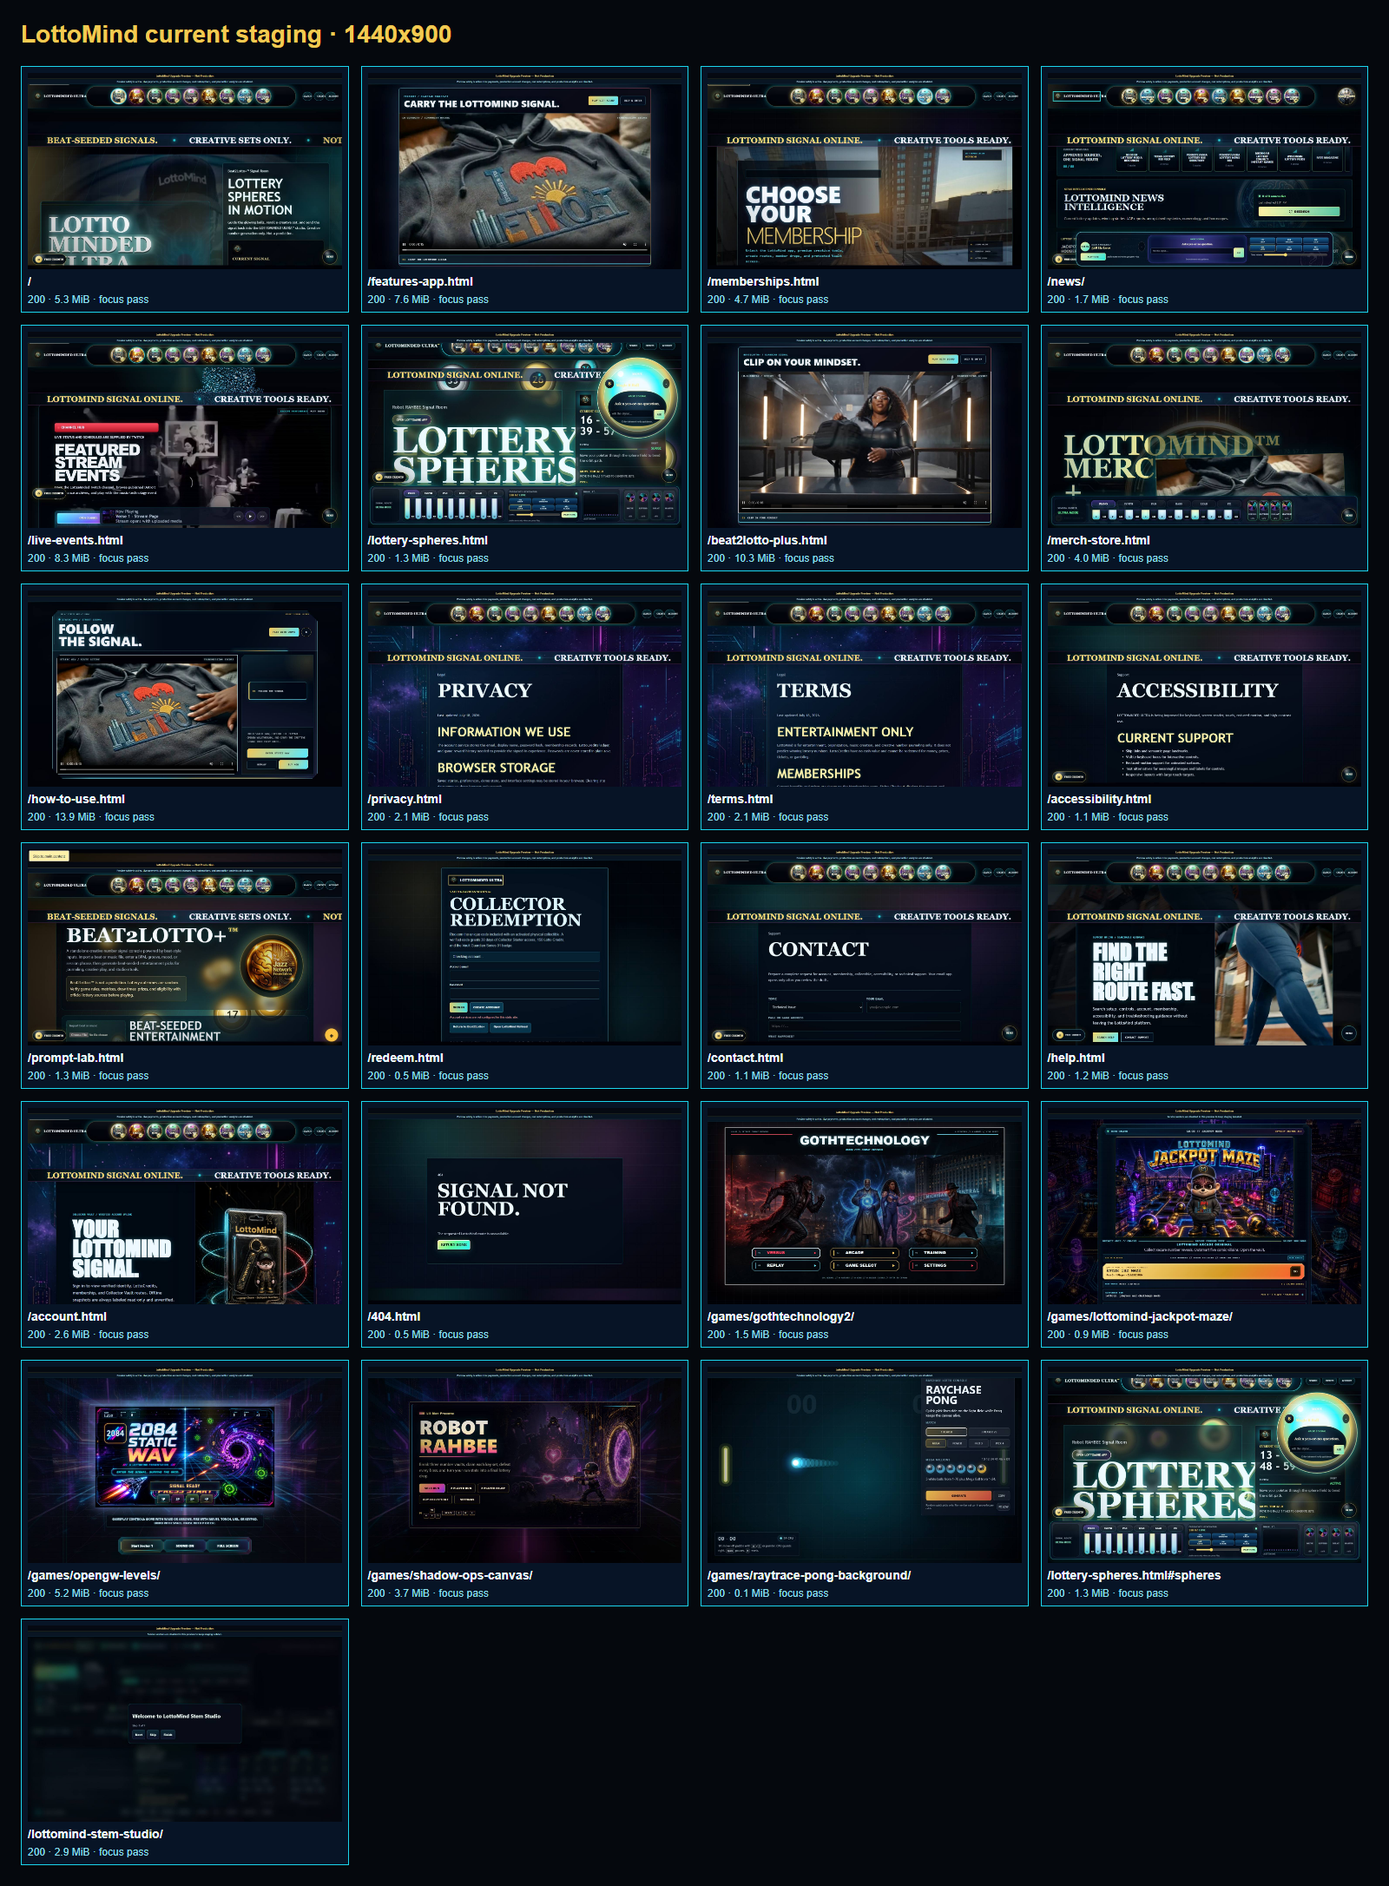
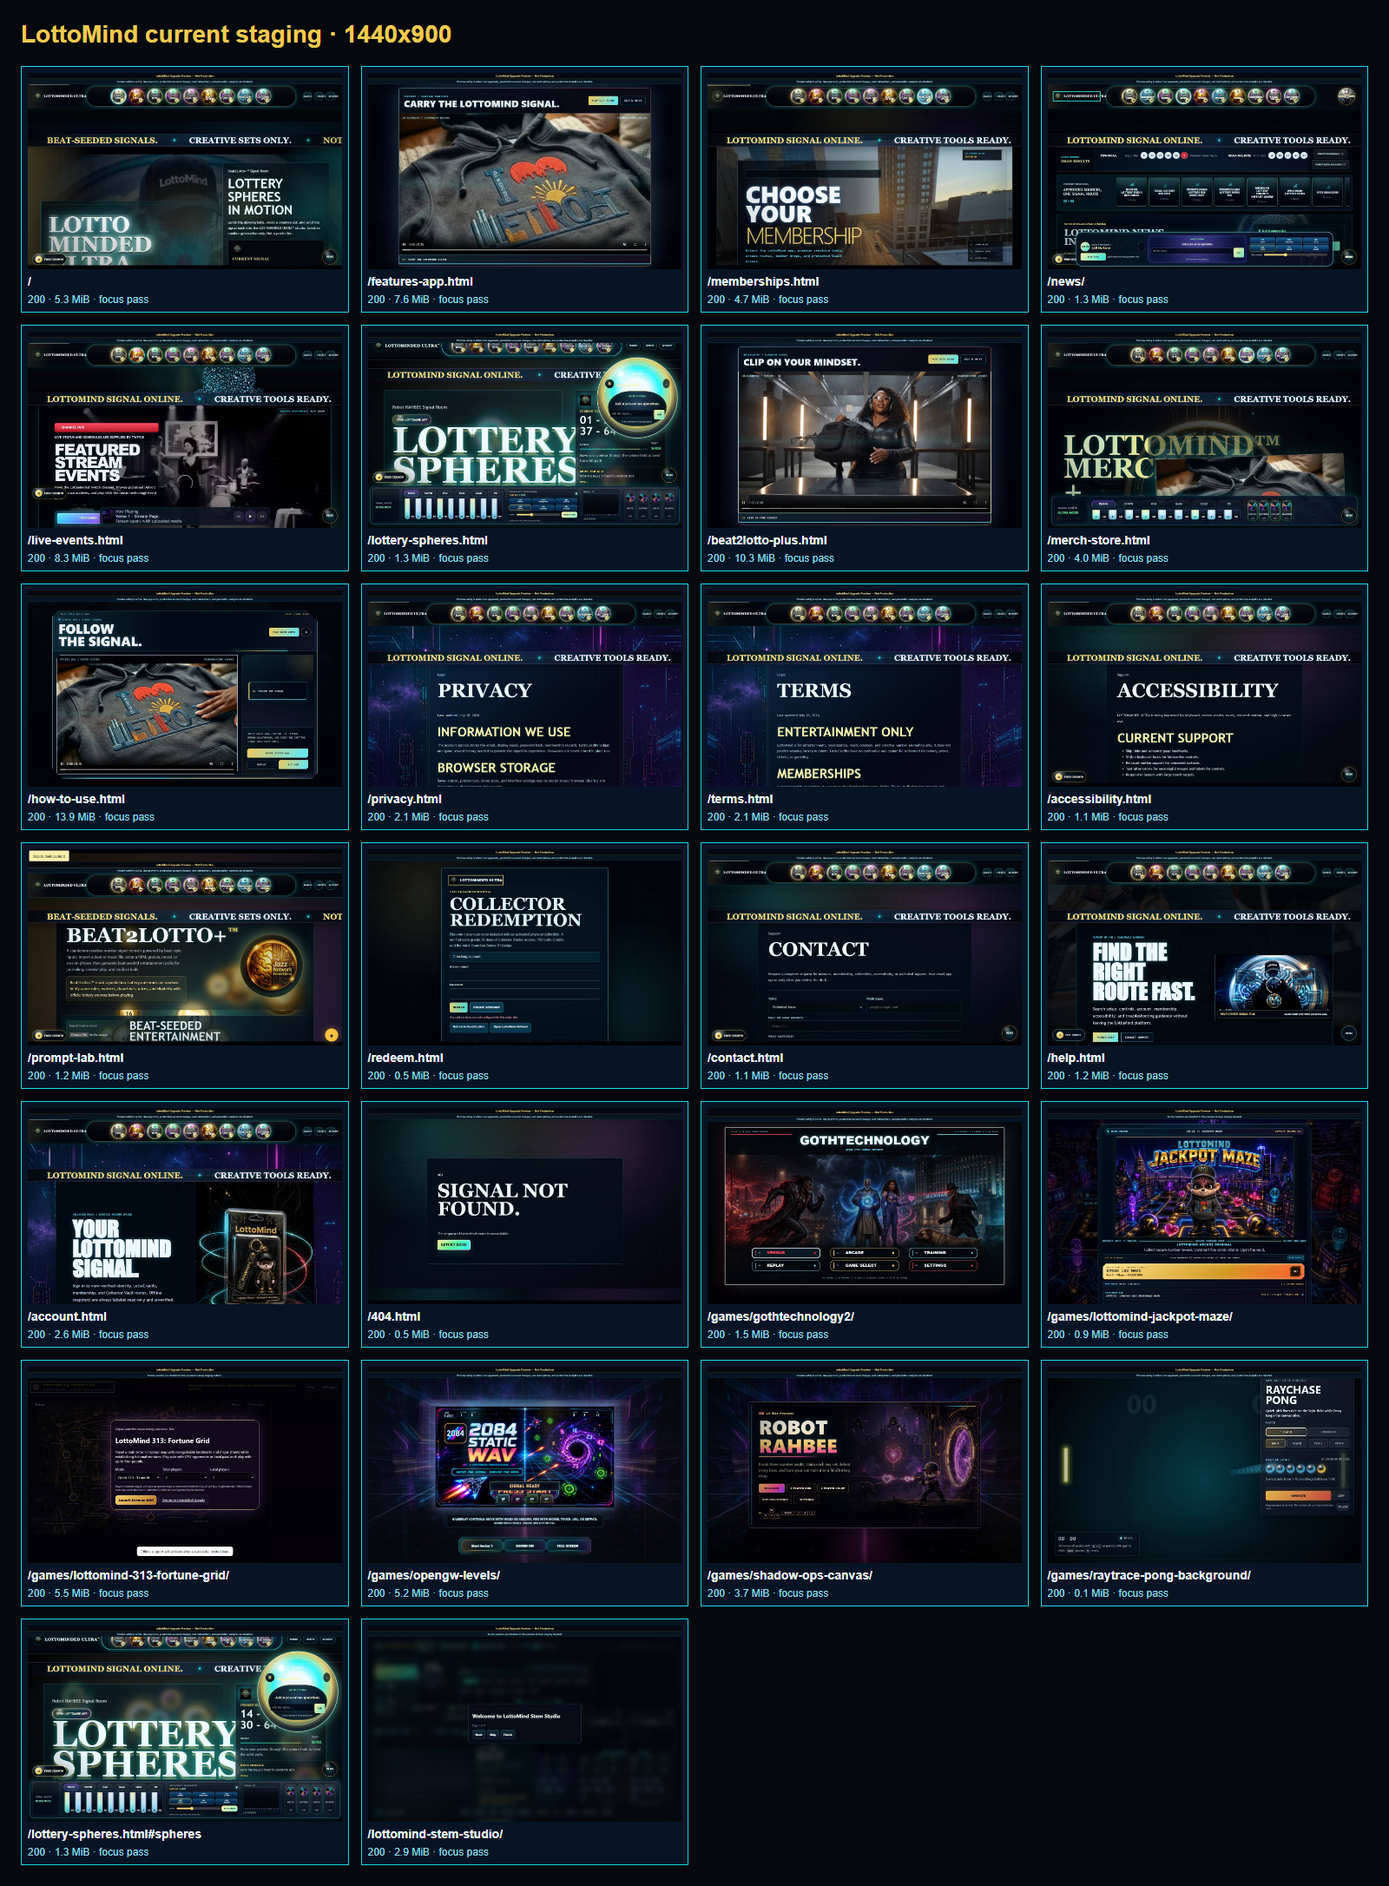
chore: verify recovery and checkout release gates

diff --git a/docs/upgrade-redesign-status.md b/docs/upgrade-redesign-status.md
@@ -7,25 +7,25 @@
 - Snapshot annotated tag object SHA: `9ba25352efc17d5b514e5afd59c8afde5c9d2949`
 - Snapshot target commit SHA: `975c637cea7003533cdc30aed9d96be51929bfc8`
 - Upgrade branch: `upgrade-redesign`
-- Current upgrade branch implementation SHA: `904533567a0d6bd3bc14dff74d2d6dd0b6b54e97` before the focused Collector Access recovery commit
+- Current upgrade branch implementation SHA: `0dc245f2c7eee8ddcaf19599613900bb07f010d4` before this focused verification-documentation commit
 - Upgrade branch SHA at Step 0A branch creation: `1fc4c95ca4d0b22ee5188d06f8ea75573c63a00a`
 - Upgrade branch SHA before Step 0B commit: `220653bbc300d0e0b236c6e834043f39fdfcd76c`
 - Step 0B commit SHA: `6e58aafc4addabf5281262ec951a7d6df3dc66a0`
 - Deployment mechanism discovered: GitHub Pages Actions from repository-root `.github/workflows/pages.yml`; pushes to `main` upload the repository root with `actions/upload-pages-artifact` and deploy with `actions/deploy-pages`. Current remote production head is `09f8e5d2c8bc10d0cf1af240216404c6af74c3c0`.
 - Staging provider: Local static server (Mode C); no remote preview provider is configured
-- Staging URL: Local only (`http://127.0.0.1:8385/` for the current Collector Access artifact)
-- Staging integrations: No isolated backend or Stripe test-mode configuration is currently configured; protected writes remain disabled
-- Last completed step: Added direct Home Collector Access, password visibility, session persistence, and guarded password recovery
+- Staging URL: Local only (`http://127.0.0.1:8405/` during the current release sign-off capture)
+- Staging integrations: No isolated staging backend is configured; the staging artifact keeps payments, account writes, redemptions, and production analytics disabled. The connected backend was verified separately with Stripe `test` mode.
+- Last completed step: Deployed and verified the committed Collector recovery and Stripe mode handlers, then reran every non-authenticated release gate
 - Step 1 commit SHA: This file is part of the Step 1 commit; use `git log -1 --format=%H -- docs/upgrade-redesign-status.md` to resolve its exact non-self-referential SHA. The completion report records it explicitly.
 - Last staging review: Collector Access recovery; review: `docs/staging-reviews/collector-access-recovery.md`
 - Staging review commit SHA: This file is part of the staging-review commit; the completion report records its exact SHA.
-- Last successful test run: 2026-08-03 - focused Collector recovery passed 10/10; site validation passed 17 HTML files; source browser suite passed 170 with 8 intentional skips; release audit passed 7/7 groups; source/staging route matrix passed 156/156; staging browser safety passed 12/12; static staging verification passed 26 pages and 591 same-origin references
+- Last successful test run: 2026-08-04 - site validation passed 17 HTML files; source browser suite passed 170 with 8 intentional skips; release audit passed 7/7 groups; fresh-port source/staging route matrix passed 156/156; staging browser safety passed 12/12; static staging verification passed 26 pages and 591 same-origin references; visual sign-off passed 78/78 states
 - Visual baseline: Complete - 69 production route screenshots plus desktop, tablet, and mobile contact sheets under `docs/visual-baseline/v1/`
 - Step 1 visual comparison: Production and staging home routes compared at 1440x900 and 390x844; staging adds only the preview and safety banners, with no redesign changes
 - Resolved Step 1 baseline failures: Contact support helper restored; Stem Studio tablet/mobile overflow corrected; Jackpot Maze runtime, heading, and entry focus restored; first-load outliers reduced; staging News production request removed
-- Latest visual comparison: Home and Memberships compared with their v1 references at 1440x900 and 390x844; review: `docs/staging-reviews/collector-access-recovery.md`
+- Latest visual comparison: Memberships was compared with its v1 references at 1440x900 and 390x844, and all 26 current routes passed desktop, tablet, and mobile sign-off; review: `docs/staging-reviews/release-blocker-remediation.md`
 - Latest performance comparison: three presentation videos are 73.4-73.5% smaller; the Account hero is 92.0% smaller; the Arcade marquee is 93.7% smaller. Current staging transfer measurements are recorded in `docs/staging-reviews/help-media-release.md`
-- Staging review approval status: Needs authenticated checkout handoff before Step 34
+- Staging review approval status: Needs authenticated Stripe test Checkout handoff and cancellation before Step 34
 - Production approval status: The earlier Step 35 launch was approved and completed through PR #2 using merge commit `09f8e5d2c8bc10d0cf1af240216404c6af74c3c0`; the new Phase 1 rollback commit is not approved or merged to `main`
 - Rollback reference: `git revert -m 1 09f8e5d2c8bc10d0cf1af240216404c6af74c3c0`; permanent snapshot `v1-final` remains at `975c637cea7003533cdc30aed9d96be51929bfc8`
 - Known pre-existing repository changes: The working tree was clean when Step 0A began. Local `main` already contained commit `1fc4c95ca4d0b22ee5188d06f8ea75573c63a00a` ahead of `origin/main`; that commit was preserved as the starting point of `upgrade-redesign` and was not pushed to production.
@@ -47,13 +47,13 @@
 - Changes: Added Collector Access beside Unlock Vault on Home; added password visibility, Remember me session persistence, Forgot Password, and password-update controls to Collector Access
 - Security: Raw passwords are never stored. Remember me chooses local versus tab-scoped session-token storage. Recovery tokens are cleared from the URL after capture.
 - Staging safety: Reset emails, password updates, production account writes, live payments, real redemptions, and production analytics remain blocked. No isolated staging account backend is configured.
-- Backend status: Supabase Edge Function handlers are prepared but not deployed by this step.
+- Backend status: The committed `lottomind-api` handler is deployed as active Supabase Edge Function version 6. Password recovery responds generically, password update requires an authenticated recovery session, and billing configuration reports Stripe `test` mode.
 - Tests: Focused Collector recovery 10/10; full browser suite 170 passed with 8 intentional skips; route matrix 156/156; release audit 7/7; site validation 17 HTML files; staging safety 12/12; static staging 26 pages and 591 same-origin references
 - Visual review: `docs/staging-reviews/collector-access-recovery.md`; desktop and mobile captures show no horizontal overflow and preserve LottoMind's visual identity
 - Staging URL: Local only (`http://127.0.0.1:8385/`)
 - Production approval status: Not approved for this change; `main`, the production URL, and `v1-final` remain unchanged
 
-- Remaining checkout gate: the live configuration does not expose a `test` or `live` mode value, and the browser has no authenticated Collector session. The authenticated Stripe handoff and cancellation remain incomplete
+- Remaining checkout gate: the live configuration now reports Stripe `test` mode, but the existing visible Collector credentials were rejected once with `401`. No retry, password guess, Stripe redirect, payment entry, or charge was attempted. The authenticated test Checkout handoff and cancellation remain incomplete.
 - Tag safety: local and remote `v2-rc1` annotated tag objects differ, but both peel to `971dd17accd03be8bd1ff20664ad98734c792867`; no tag was moved, replaced, or deleted
 - Review: `docs/staging-reviews/step34-preflight-refresh.md`
 - Approval status: Not ready for Step 34; production remains not approved

diff --git a/docs/production-release-candidate.md b/docs/production-release-candidate.md
@@ -6,8 +6,8 @@
 - Production branch: `main` at `09f8e5d2c8bc10d0cf1af240216404c6af74c3c0`
 - Permanent pre-upgrade snapshot: `v1-final` at `975c637cea7003533cdc30aed9d96be51929bfc8`
 - Upgrade branch: `upgrade-redesign`
-- Current audited upgrade tree: `050ecb279ea4deafe6d75714874c34be486f304d` before the focused preflight documentation update
-- Staging URL: Local only (`http://127.0.0.1:8369/`)
+- Current audited upgrade tree: `0dc245f2c7eee8ddcaf19599613900bb07f010d4` before the focused release-blocker verification documentation update
+- Staging URL: Local only (`http://127.0.0.1:8405/` during the current sign-off capture)
 - Active release-candidate tag for the current tree: None
 - Historical immutable tags: `v2-rc1`, `v2-rc2`, and `v2-rc3`
 - Production approval for the current tree: Not approved
@@ -16,12 +16,12 @@ The historical release candidate was merged previously. The current upgrade work
 
 ## Current Verification
 
-- Source browser suite: 160 passed, 8 intentional viewport skips, 0 failed.
+- Source browser suite: 170 passed, 8 intentional viewport skips, 0 failed.
 - Release audit: 7/7 groups passed for metadata, structured data, PWA, checkout hooks, offline account behavior, challenges, and share cards.
 - Source/staging route matrix: 156/156 passed.
-- Staging browser safety: 11/11 passed, including mobile Help fixed-control clearance.
+- Staging browser safety: 12/12 passed, including mobile Help fixed-control clearance and blocked Collector writes.
 - Staging static artifact: 26 noindexed pages and 591 same-origin references passed.
-- Visual sign-off: 75/75 states passed across 25 routes at `1440x900`, `768x1024`, and `390x844`.
+- Visual sign-off: 78/78 states passed across 26 routes at `1440x900`, `768x1024`, and `390x844`.
 
 ## Accessibility Summary
 
@@ -43,12 +43,15 @@ Source production HTML remains free of staging banners and staging noindex metad
 
 ## Checkout And Backend Limitations
 
-This task did not perform or complete a charge. Production configuration reports enabled plans, the live UI reports secure checkout ready, a signed-out Gold selection stops at Collector Access, and an unauthenticated checkout request returns `401` without a Stripe redirect. The authenticated Stripe handoff and cancellation remain incomplete because the browser is not signed in and the configuration does not expose its Stripe mode. No isolated staging backend, dedicated Stripe test project, or remote preview provider is configured, so protected staging writes remain disabled.
+This task did not perform or complete a charge. The connected Supabase `lottomind-api` Edge Function is active at version 6. Billing configuration reports `mode: test`, `enabled: true`, and seven configured plans. Password recovery returns a generic `200`, while unauthenticated password updates and Checkout creation return `401` without a Stripe redirect.
+
+The authenticated Stripe test Checkout handoff and cancellation remain incomplete because the existing visible Collector credentials were rejected once with `401`. No retry, password guess, payment information, Stripe redirect, charge, or redemption occurred. No isolated staging backend, dedicated staging Stripe project, or remote preview provider is configured, so the local artifact keeps protected writes disabled. The current tree is not ready for a new release-candidate tag until a valid Collector sign-in completes that final test-mode Checkout checkpoint.
 
 ## Visual Evidence
 
 - Production baseline: [`docs/visual-baseline/v1/`](visual-baseline/v1/)
 - Current review: [`docs/staging-reviews/help-media-release.md`](staging-reviews/help-media-release.md)
+- Checkout remediation review: [`docs/staging-reviews/release-blocker-remediation.md`](staging-reviews/release-blocker-remediation.md)
 - Current contact sheets and machine manifest: [`docs/staging-reviews/release-signoff-assets/`](staging-reviews/release-signoff-assets/)
 
 ## Rollback And Merge Boundary

diff --git a/docs/staging-reviews/release-blocker-remediation.md b/docs/staging-reviews/release-blocker-remediation.md
@@ -1,0 +1,63 @@
+# Release Blocker Remediation Review
+
+## Scope
+
+- Branch: `upgrade-redesign`
+- Audited implementation SHA: `0dc245f2c7eee8ddcaf19599613900bb07f010d4`
+- Production reference: `main` at `09f8e5d2c8bc10d0cf1af240216404c6af74c3c0`
+- Staging URL: Local only (`http://127.0.0.1:8405/` during capture)
+- Affected route: `/memberships.html`
+- Connected service: Supabase `lottomind-api` Edge Function version 6
+
+## Visual Comparison
+
+- Production baseline desktop: [Memberships 1440x900](../visual-baseline/v1/memberships--desktop.png)
+- Production baseline mobile: [Memberships 390x844](../visual-baseline/v1/memberships--mobile.png)
+- Current staging desktop: [Memberships 1440x900](release-blocker-remediation-assets/memberships-1440x900.png)
+- Current staging mobile: [Memberships 390x844](release-blocker-remediation-assets/memberships-390x844.png)
+- Full current sign-off: [78-state manifest](release-signoff-assets/release-signoff-manifest.json)
+
+The current upgrade branch intentionally differs from `v1-final` through the accumulated navigation, commercial, membership, and staging-safety work. This backend remediation introduced no new visual departure. Desktop and mobile captures have no horizontal overflow or console errors, and the black, gold, cyan, violet, Guardian, arcade, and cinematic identity remains recognizable.
+
+## Improvements
+
+- Deployed the already committed password-recovery and billing-mode handlers without changing website files or production deployment settings.
+- Live billing configuration now reports `mode: test`, `enabled: true`, and seven configured plans.
+- A generic password-reset request returned `200` without revealing whether an account exists.
+- Unauthenticated password updates and Checkout creation remain blocked with `401`.
+- Expanded the repeatable release sign-off from 25 to 26 routes by adding LottoMind 313: Fortune Grid; all 78 desktop, tablet, and mobile states passed.
+
+## Regressions
+
+None found in automated source, staging, route, accessibility, metadata, PWA, asset, or visual checks.
+
+## Features Intentionally Removed
+
+None.
+
+## Features Unintentionally Lost
+
+None found.
+
+## Accessibility Findings
+
+Keyboard focus, reduced motion, mobile containment, popup pointer behavior, Help fixed-control clearance, and route landmarks passed the current automated suites. The two focused Memberships captures reported no overflow or console errors.
+
+## Performance Findings
+
+The remediation changes service behavior and documentation only. No new page media or initial-transfer cost was added.
+
+## Checkout Safety
+
+- Stripe reports test mode; no live charge can be created by the connected key.
+- The existing visible Collector credentials were rejected once with `401`, so the authenticated Checkout request was not sent.
+- No payment form was completed, no card details were entered, and no charge or redemption occurred.
+- No isolated staging backend is available. The local staging artifact therefore remains fail-closed for payments, production account writes, redemptions, and production analytics.
+
+## Recommended Correction
+
+Use Collector Access password recovery or a known valid account, sign in through the visible form, then repeat the Gold test-mode Checkout handoff and cancel back to Memberships without entering payment information. Do not create a release-candidate tag until that final checkpoint passes.
+
+## Approval Status
+
+Needs revision.

diff --git a/docs/site-rebuild-checklist.md b/docs/site-rebuild-checklist.md
@@ -6,11 +6,11 @@ This matrix records the current release-signoff evidence for the upgrade branch.
 
 - Production baseline: `v1-final` at `975c637cea7003533cdc30aed9d96be51929bfc8`, with 69 route captures in [`visual-baseline/v1/`](visual-baseline/v1/)
 - Audited site content: the focused Help and presentation-media task tree on `upgrade-redesign`; the final commit is resolved with `git log -1 --format=%H -- docs/site-rebuild-checklist.md`
-- Current staging captures: 75/75 passed across 25 routes at `1440x900`, `768x1024`, and `390x844`
+- Current staging captures: 78/78 passed across 26 routes at `1440x900`, `768x1024`, and `390x844`
 - Contact sheets: [desktop](staging-reviews/release-signoff-assets/desktop-contact-sheet.png), [tablet](staging-reviews/release-signoff-assets/tablet-contact-sheet.png), and [mobile](staging-reviews/release-signoff-assets/mobile-contact-sheet.png)
 - Machine-readable results: [`release-signoff-manifest.json`](staging-reviews/release-signoff-assets/release-signoff-manifest.json)
 - Route gate: 156/156 passed across source and staging, including Help, Account, visible keyboard focus, reduced motion, console/page errors, same-origin assets, overflow, noindex, preview banner, and environment write protections
-- Review report: [`help-media-release.md`](staging-reviews/help-media-release.md)
+- Review reports: [`help-media-release.md`](staging-reviews/help-media-release.md) and [`release-blocker-remediation.md`](staging-reviews/release-blocker-remediation.md)
 
 ## Sign-Off Matrix
 
@@ -38,6 +38,7 @@ This matrix records the current release-signoff evidence for the upgrade branch.
 | `/404.html` | Required route | Pass | Pass | Pass | Pass | Pass | Pass | Pass | Pass | Pass | Measured | Current staging sign-off complete |
 | `/games/gothtechnology2/` | Arcade manifest | Pass | Pass | Pass | Pass | Pass | Pass | Pass | Pass | Pass | Measured | Current staging sign-off complete |
 | `/games/lottomind-jackpot-maze/` | Arcade manifest | Pass | Pass | Pass | Pass | Pass | Pass | Pass | Pass | Pass | Measured | Current staging sign-off complete |
+| `/games/lottomind-313-fortune-grid/` | Arcade manifest | Not applicable | Pass | Pass | Pass | Pass | Pass | Pass | Pass | Pass | Measured | New route; 3/3 current staging states passed with visible setup controls and no v1 route |
 | `/games/opengw-levels/` | Arcade manifest | Pass | Pass | Pass | Pass | Pass | Pass | Pass | Pass | Pass | Measured | Current staging sign-off complete |
 | `/games/shadow-ops-canvas/` | Arcade manifest | Pass | Pass | Pass | Pass | Pass | Pass | Pass | Pass | Pass | Measured | Current staging sign-off complete |
 | `/games/raytrace-pong-background/` | Arcade manifest | Pass | Pass | Pass | Pass | Pass | Pass | Pass | Pass | Pass | Measured | Current staging sign-off complete |
